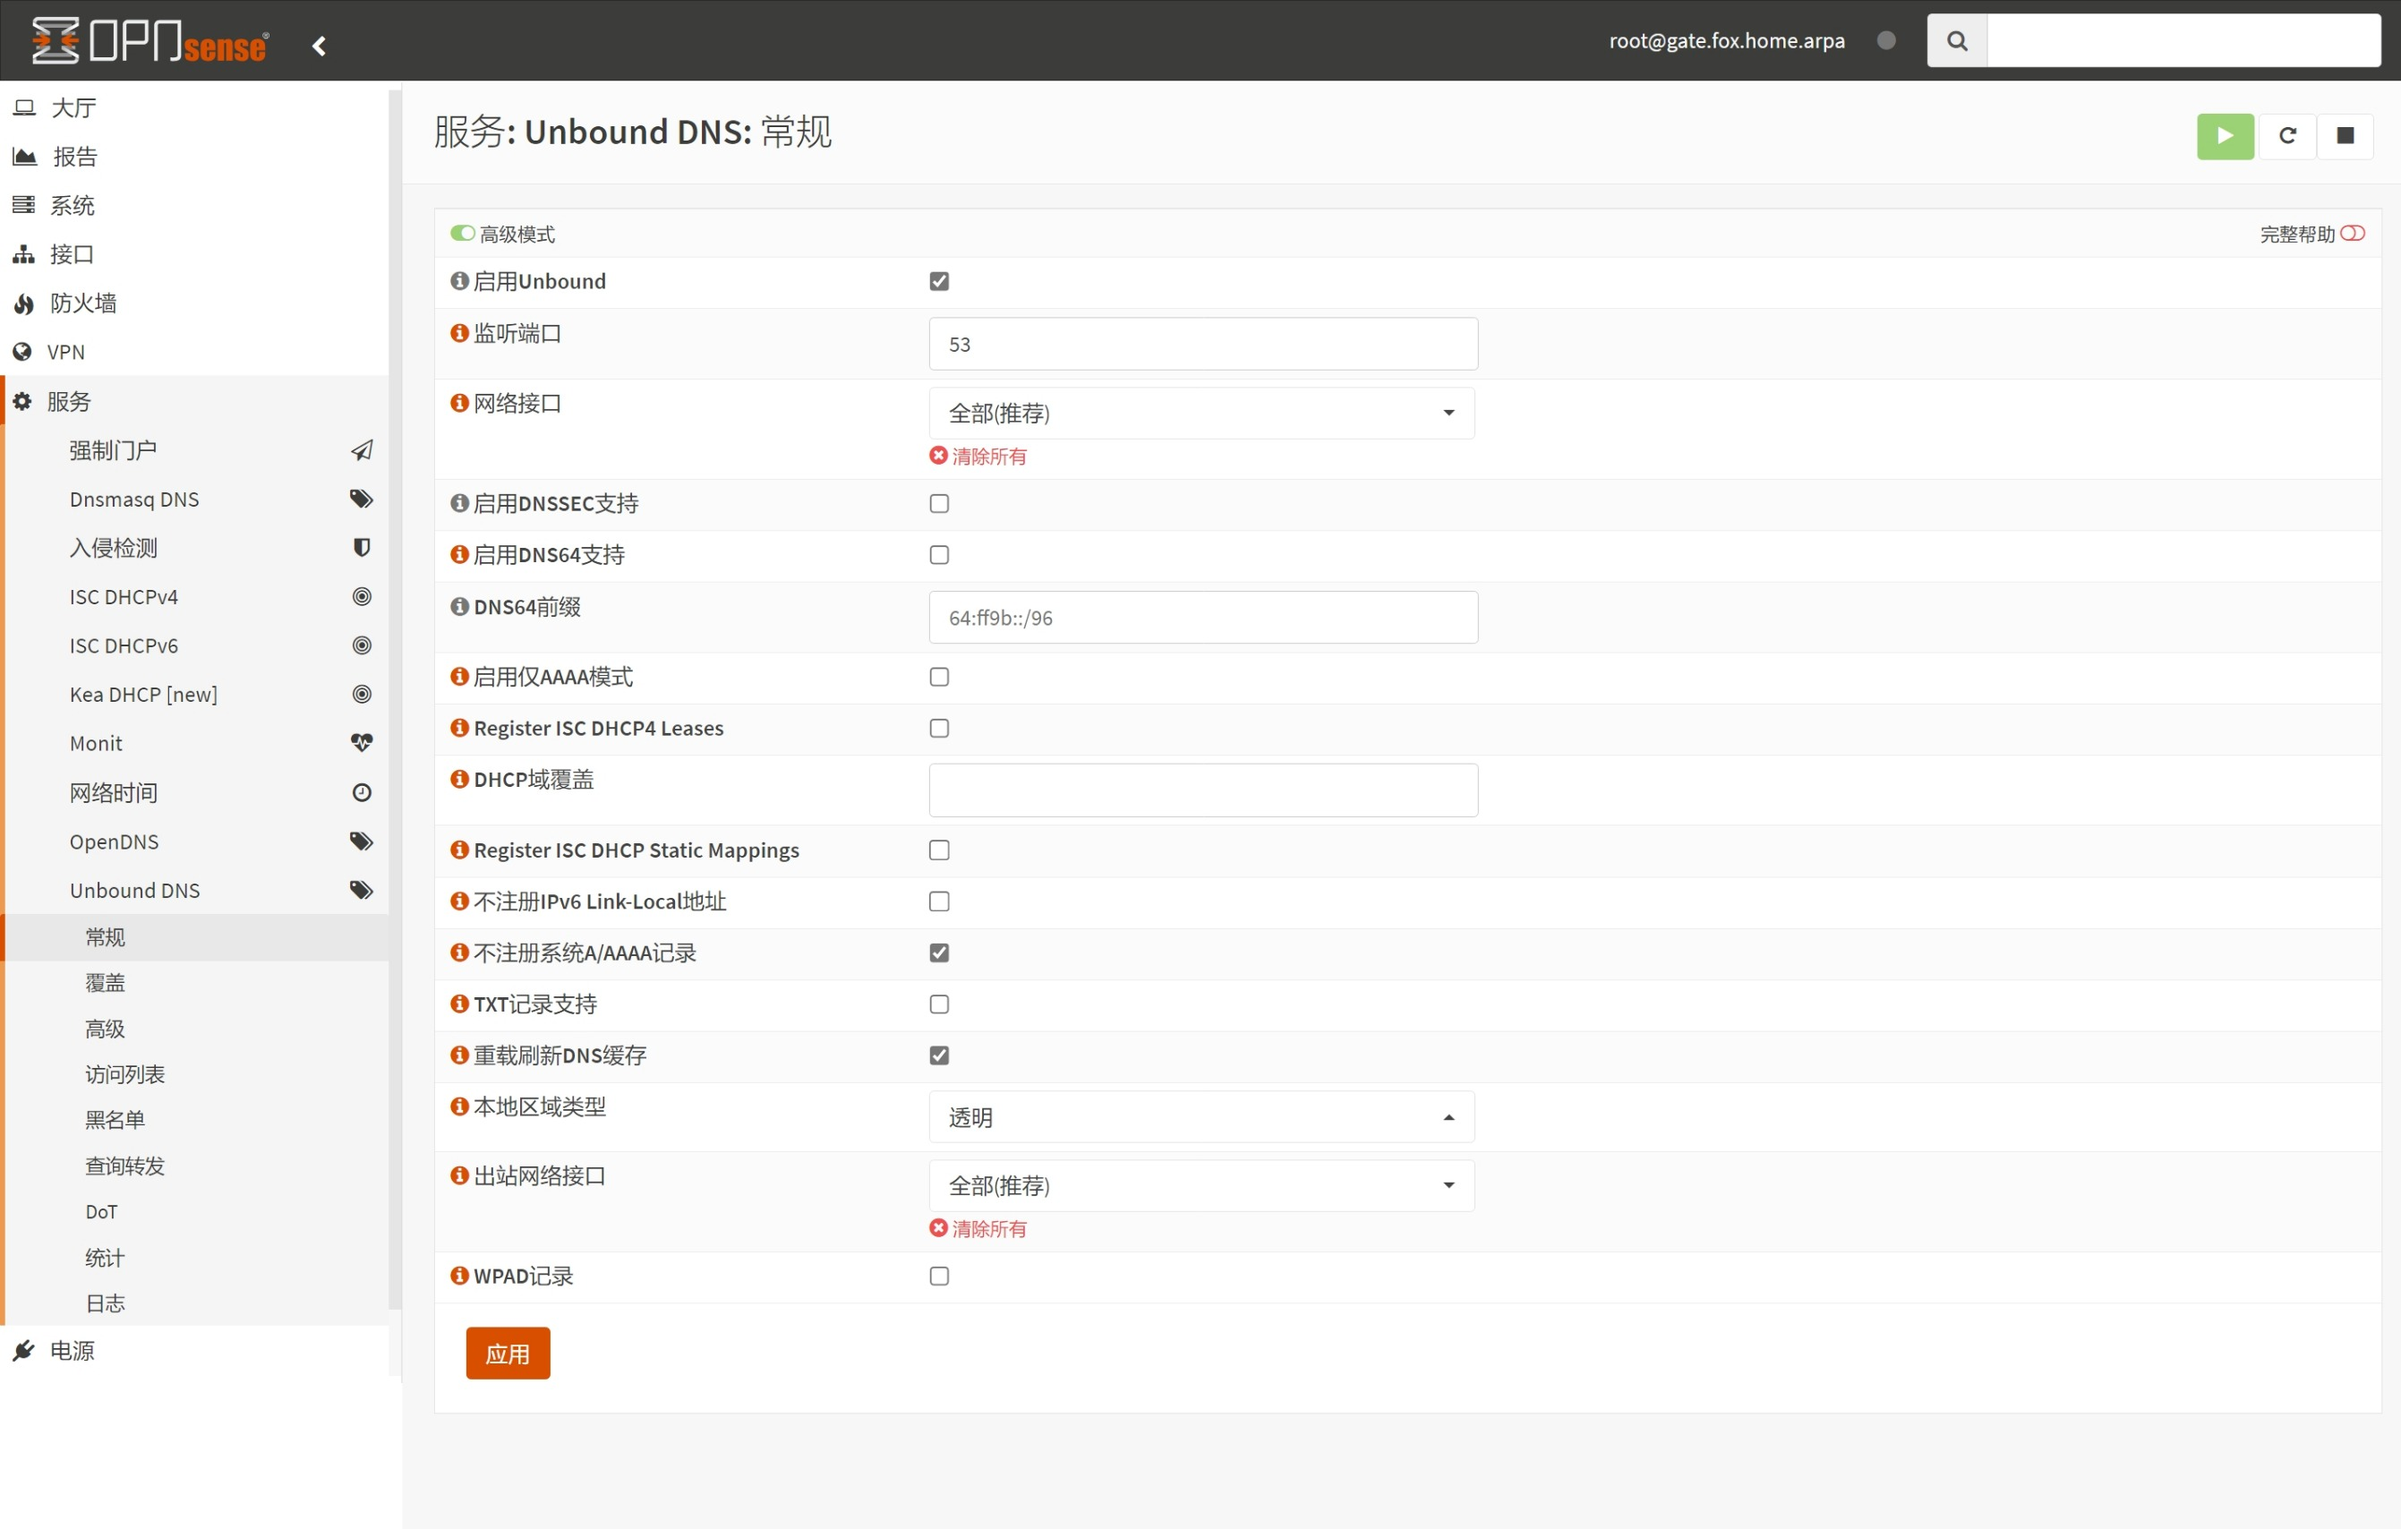
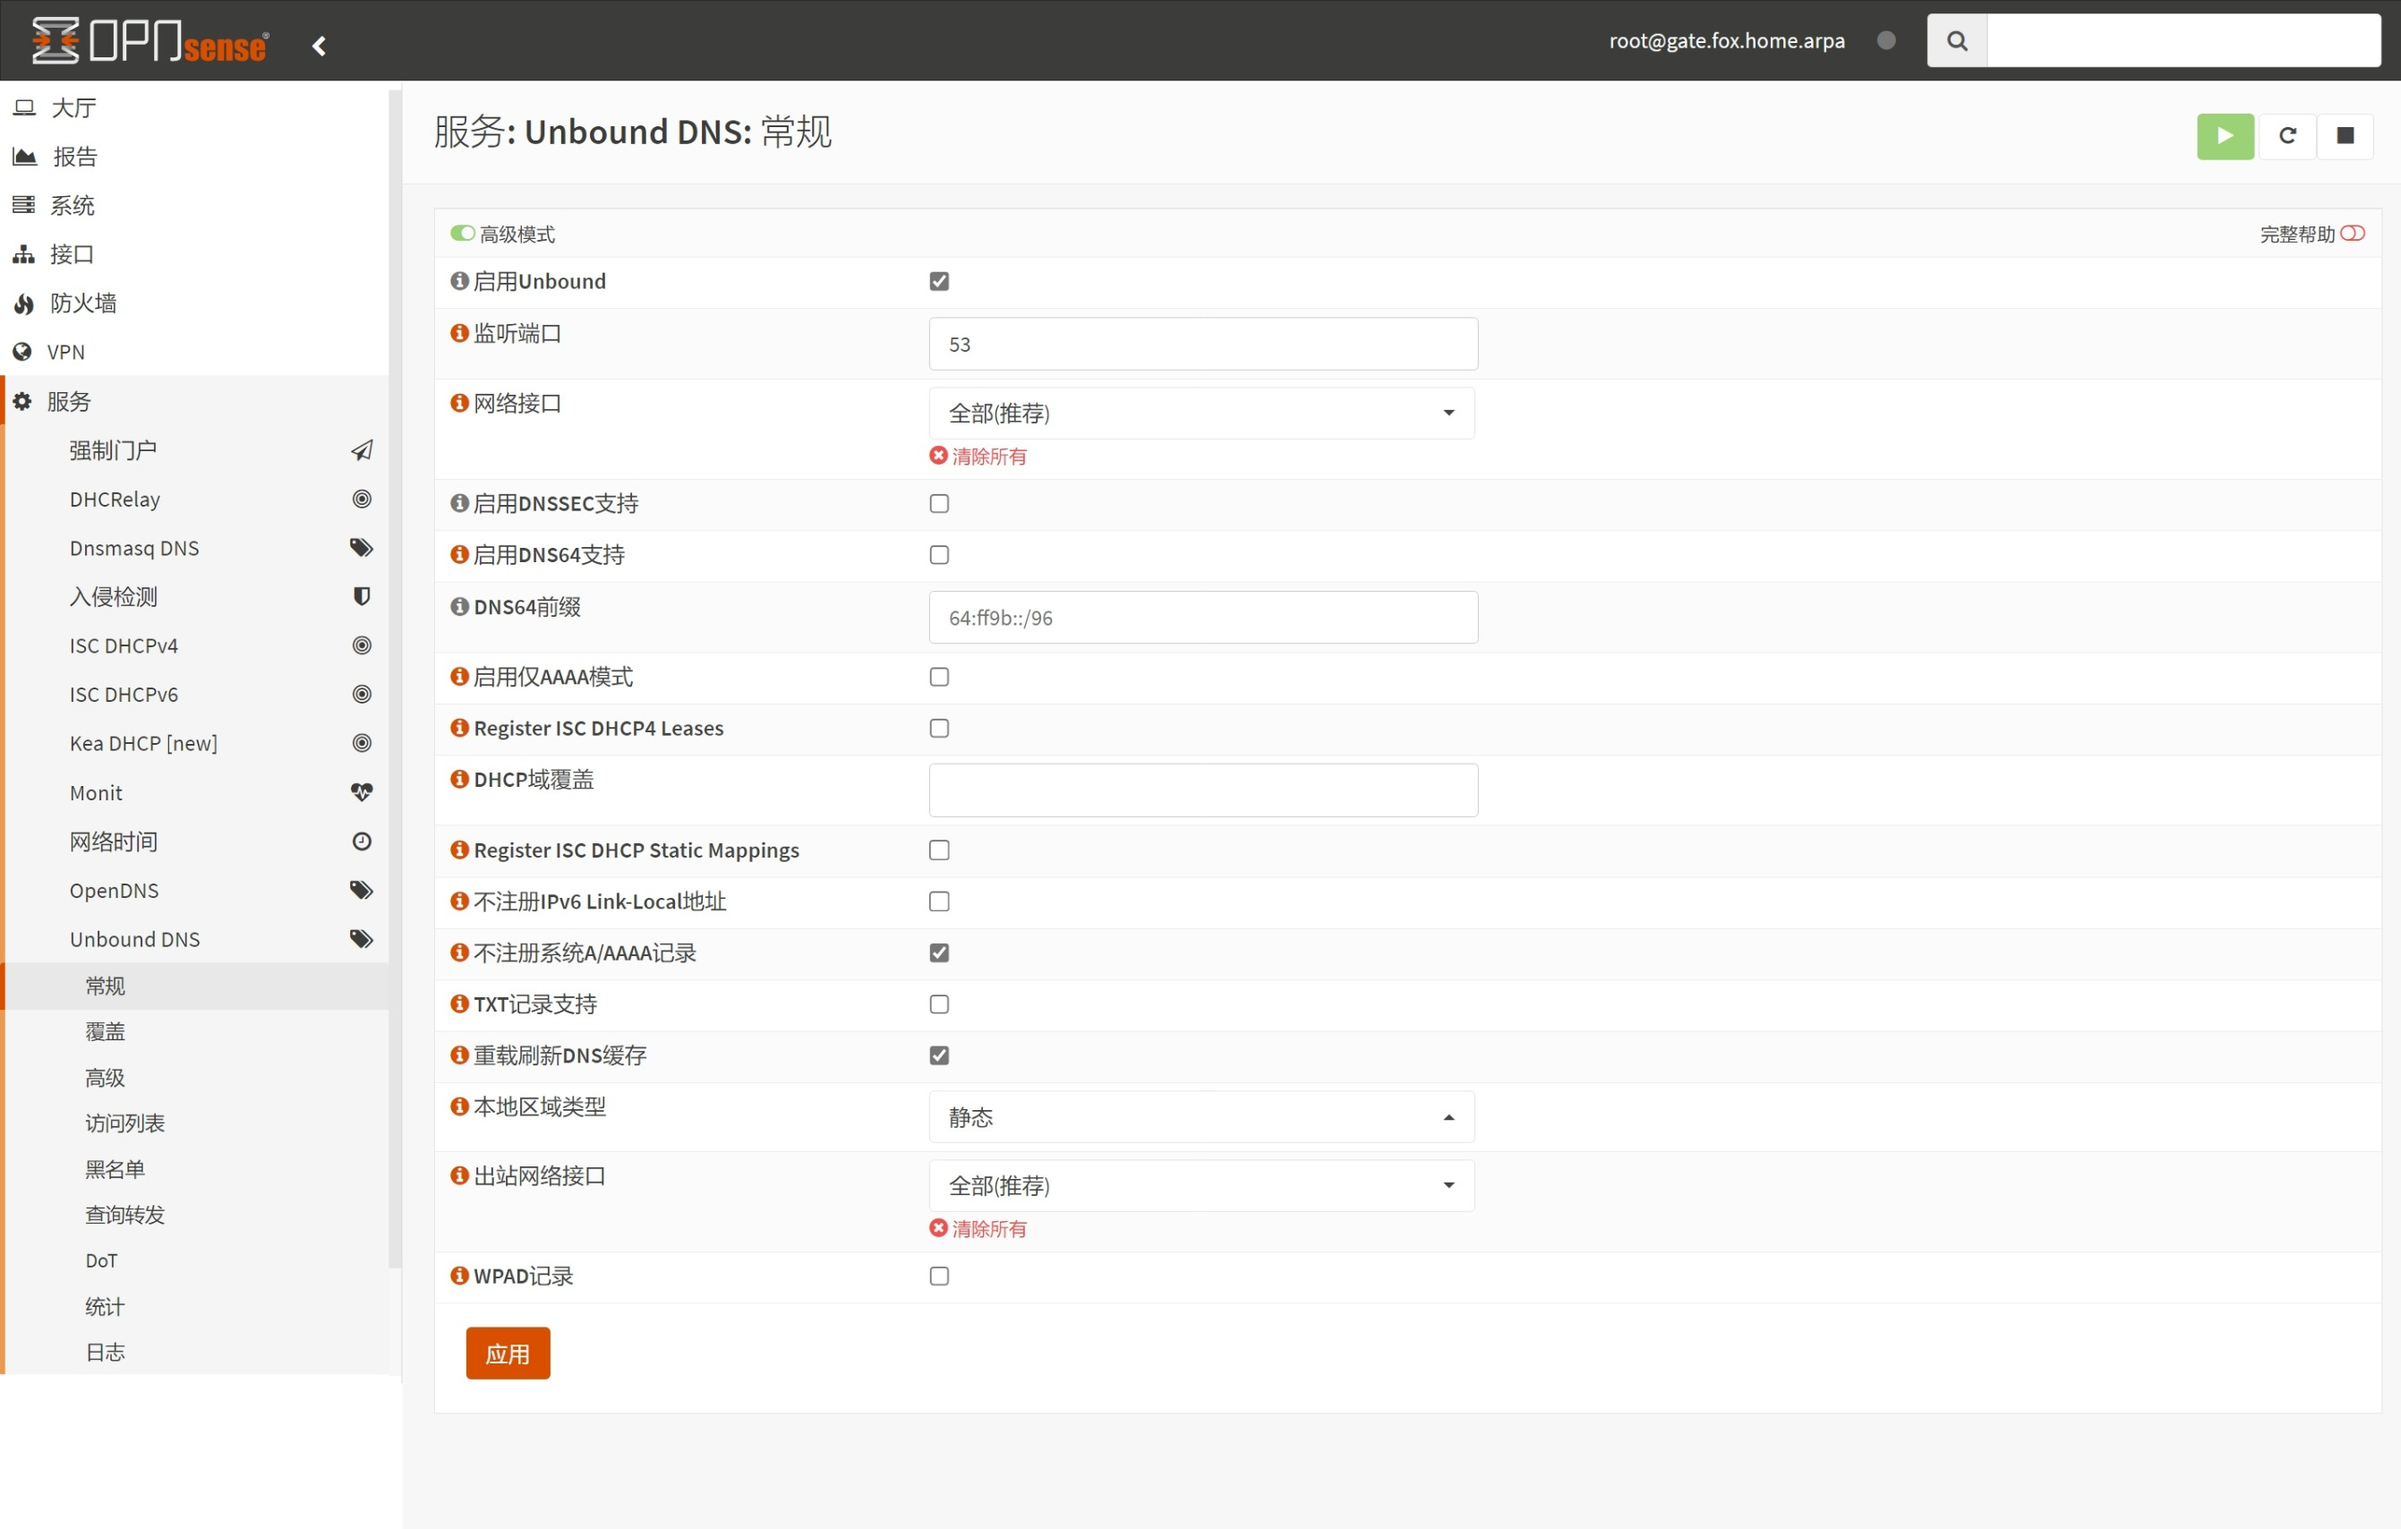
同步更新

Changed region(s): [[0.0, 0.4344, 0.0928, 0.8999], [0.0309, 0.3103, 0.0928, 0.4034], [0.4023, 0.7137, 0.4333, 0.7447]]

diff --git a/08.设置Unbound.md b/08.设置Unbound.md
@@ -17,12 +17,14 @@
 |网络接口|`全部（推荐）`|监听的网络接口|
 |不注册系统A/AAAA记录|**勾选**|无需在 `Unbound` 中注册本机 IPv4 / IPv6 地址|
 |重载刷新DNS缓存|勾选|在 `Unbound` 重新加载时刷新 DNS 缓存|
-|本地区域类型|`透明`|保持默认值即可|
+|本地区域类型|`静态`|如果本地数据中有匹配项，则响应查询 <br> 否则，返回 `nodata` 或 `nxdomain` <br> 对于否定回答，如果该区域顶级域的本地数据存在，响应将包含其 SOA 记录|
 |出站网络接口|`全部（推荐）`|设置向上游 DNS 发送请求时使用的网络接口|
 
 **额外说明：**  
 
 1. 如果上游 DNS 服务器支持 `DNSSEC` 协议，可勾选 `DNSSEC` 选项。  
+
+2. `本地区域类型` 默认参数为 `透明` ，关于该参数的更多介绍，请查阅：[Unbound.conf(5)](https://nlnetlabs.nl/documentation/unbound/unbound.conf/#local-zone) 。  
 
 按需修改完成后，点击页面底部 `保存` 并点击 `应用更改` 。  
 

diff --git a/11.设置系统参数.md b/11.设置系统参数.md
@@ -141,7 +141,15 @@ https://mirrors.bfsu.edu.cn/opnsense
 
 ![系统设置-常规](img/p11/opn_sys_misc.jpeg)
 
-## 3.备份系统
+## 3.调整系统 NTP
+
+打开左侧导航 `服务 - 网络时间 - 常规` 页面。  
+
+根据实际情况，将 `NTP服务器` 列表中的某一个设置为 `首选` 并勾选 `Iburst` 选项，同时开启 `Syslog日志` 功能。  
+
+![系统服务-NTP](img/p11/opn_sys_ntp.jpeg)
+
+## 4.备份系统
 
 打开左侧导航 `系统 - 配置 - 备份` 页面，在系统调整完毕后可将系统备份。  
 

diff --git a/03.系统初始化.md b/03.系统初始化.md
@@ -34,7 +34,7 @@ OPNsense 默认账户为 `root` ，初始化密码为 `opnsense` ，使用该密
 
 |参数|值|说明|
 |--|--|--|
-|Time server hostname|`ntp.aliyun.com ntp.tencent.com`|系统 NTP 服务器地址，用空格隔开|
+|Time server hostname|`ntp.tencent.com ntp.aliyun.com`|系统 NTP 服务器地址，用空格隔开|
 |Timezone|`Asia/Shanghai`|系统本地时区|
 
 按需修改完成后，点击 `Next` 。  
